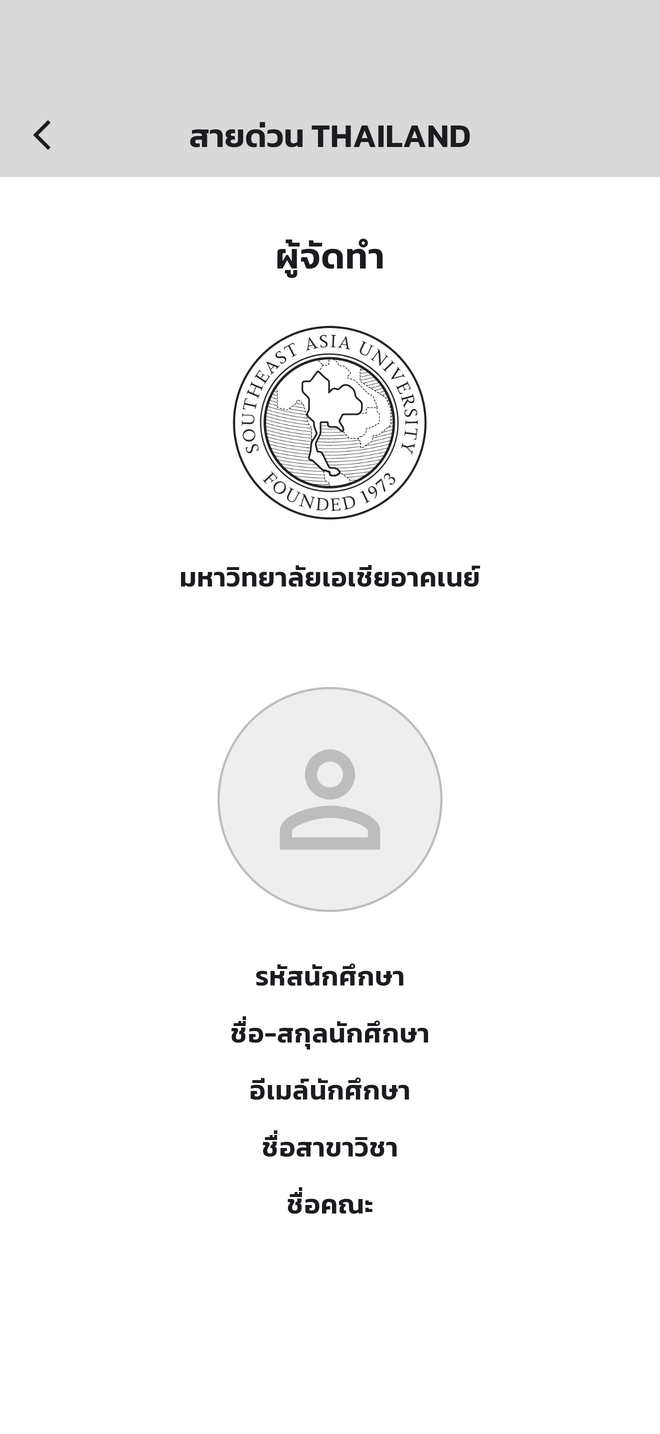
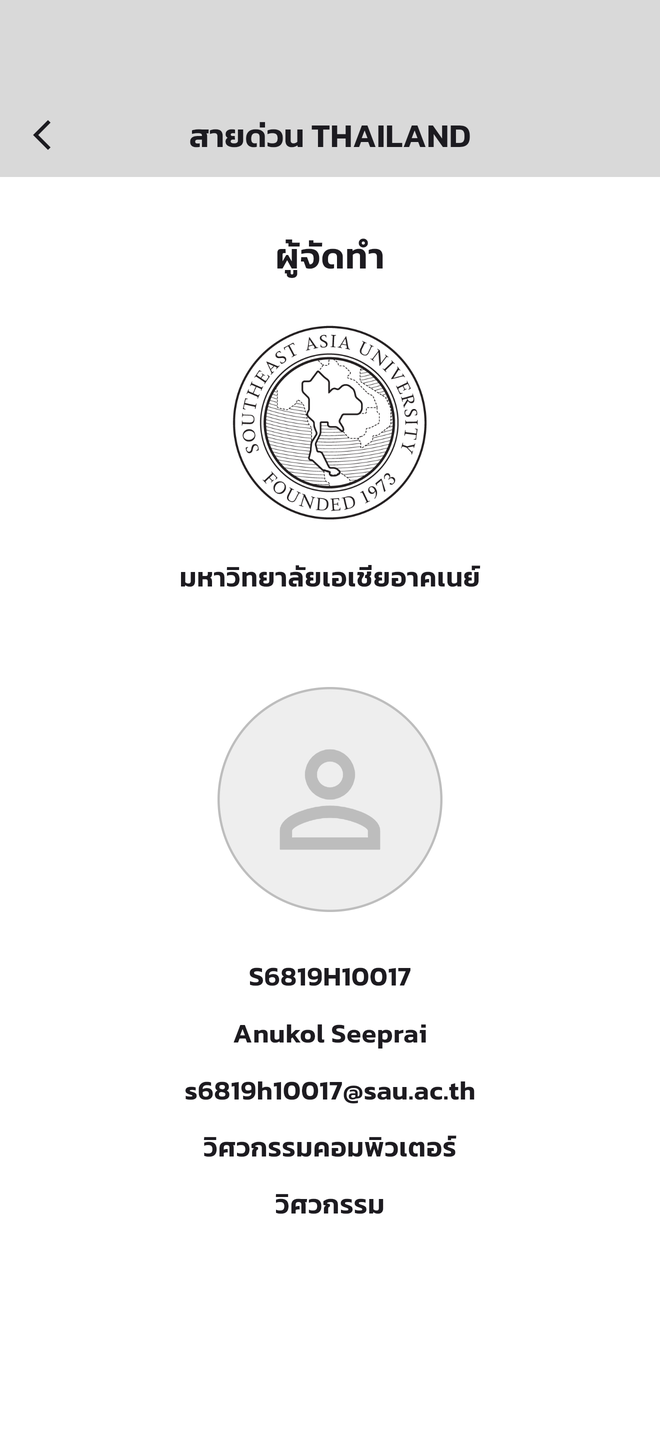
Add student details to About page

Changed region(s): [[0.2727, 0.675, 0.7273, 0.8591]]

diff --git a/lib/views/about_ui.dart b/lib/views/about_ui.dart
@@ -67,16 +67,16 @@ class AboutUI extends StatelessWidget {
                 ),
               ),
               const SizedBox(height: 30),
-              // ข้อมูลนักศึกษา: แก้เป็นข้อมูลของตัวเอง
-              Text('รหัสนักศึกษา', style: infoStyle),
+              // ข้อมูลนักศึกษา: รหัส / ชื่อ-สกุล / อีเมล์ / สาขาวิชา / คณะ
+              Text('S6819H10017', style: infoStyle),
               const SizedBox(height: 12),
-              Text('ชื่อ-สกุลนักศึกษา', style: infoStyle),
+              Text('Anukol Seeprai', style: infoStyle),
               const SizedBox(height: 12),
-              Text('อีเมล์นักศึกษา', style: infoStyle),
+              Text('s6819h10017@sau.ac.th', style: infoStyle),
               const SizedBox(height: 12),
-              Text('ชื่อสาขาวิชา', style: infoStyle),
+              Text('วิศวกรรมคอมพิวเตอร์', style: infoStyle),
               const SizedBox(height: 12),
-              Text('ชื่อคณะ', style: infoStyle),
+              Text('วิศวกรรม', style: infoStyle),
             ],
           ),
         ),
